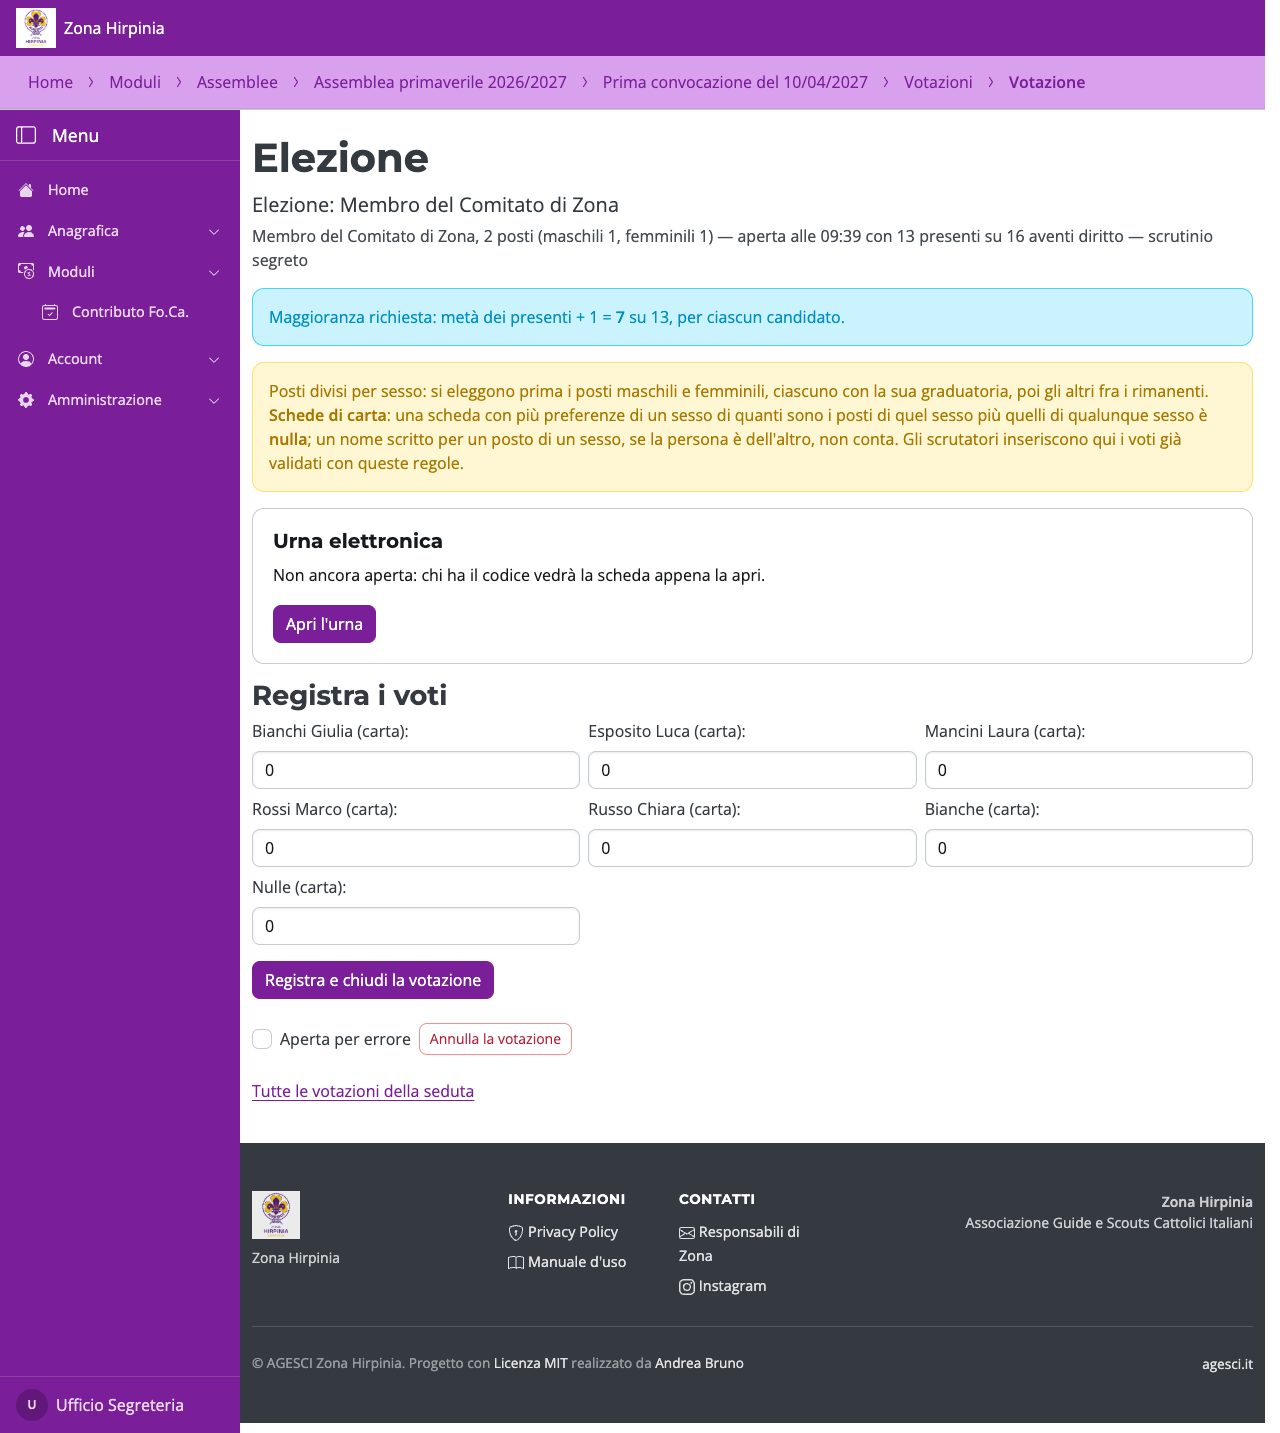
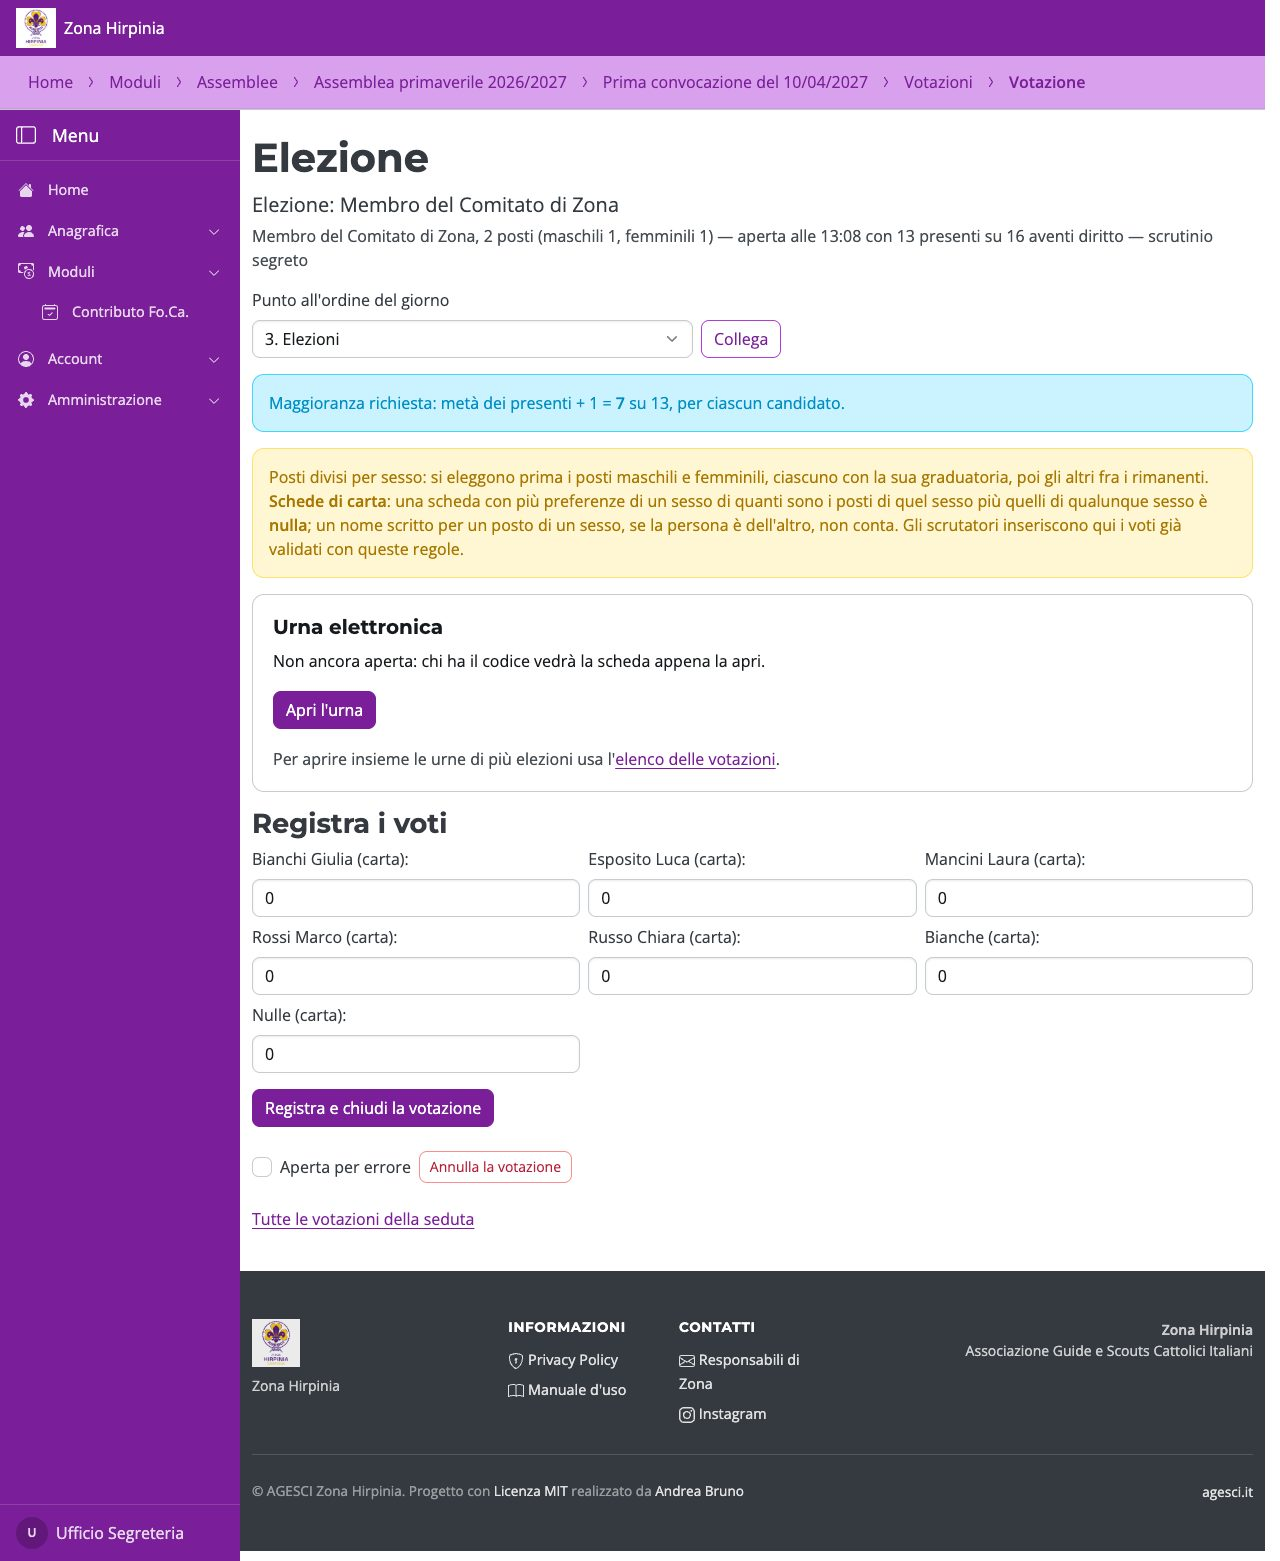
Votazione: il punto dell'OdG si collega anche a votazione chiusa
Dalla pagina della votazione si sceglie o si toglie il punto dell'ordine del
giorno in qualsiasi momento, anche a votazione chiusa e ad assemblea
conclusa (votazioni.collega_punto()): gestori, comitato elettorale,
presidenti e segretario. Serve al verbale, non tocca voti né soglie.

diff --git a/templates/assemblee/votazione.html b/templates/assemblee/votazione.html
@@ -12,6 +12,22 @@
     — {% if votazione.segreta %}scrutinio segreto{% if votazione.tipo == "BALLOTTAGGIO" and not assemblea.voto_catello %}, solo su carta{% endif %}{% else %}alzata di mano{% endif %}
   </p>
 
+  {% if puo_collegare_punto and punti_odg %}
+    <form method="post" action="{% url 'assemblee:votazione_azione' assemblea.pk seduta.pk votazione.pk %}" class="d-flex flex-wrap align-items-end gap-3 mb-5">
+      {% csrf_token %}<input type="hidden" name="azione" value="punto">
+      <div class="form-field mb-0">
+        <label for="punto-odg">Punto all'ordine del giorno</label>
+        <select id="punto-odg" name="punto" class="form-control">
+          <option value="">Nessuno</option>
+          {% for p in punti_odg %}<option value="{{ p.pk }}"{% if p.pk == votazione.punto_id %} selected{% endif %}>{{ p }}</option>{% endfor %}
+        </select>
+      </div>
+      <button type="submit" class="btn-outline theme-primary">Collega</button>
+    </form>
+  {% elif votazione.punto %}
+    <p class="mb-5">Punto all'ordine del giorno: {{ votazione.punto }}</p>
+  {% endif %}
+
   <div class="alert theme-info mb-5" role="note">
     <p class="mb-0">
       Maggioranza richiesta: metà {% if soglia.0 == "votanti" %}dei votanti{% elif soglia.0 == "aventi diritto" %}degli aventi diritto{% else %}dei presenti{% endif %} + 1

diff --git a/apps/assemblee/views.py b/apps/assemblee/views.py
@@ -1839,6 +1839,8 @@ class VotazioneView(AccedeAssembleeMixin, BreadcrumbExtraMixin, View):
         assemblea = votazione.seduta.assemblea
         in_app = assemblea.voto_catello and urna_voto.votazioni_in_app(votazione)
         return {
+            "puo_collegare_punto": voto.puo_collegare_punto(request.user, votazione),
+            "punti_odg": assemblea.punti_odg.order_by("ordine"),
             "urna": {
                 "prevista": in_app,
                 "votanti": scrutinio_voto.numero_votanti(votazione) if in_app else 0,
@@ -1916,7 +1918,8 @@ class VotazioneView(AccedeAssembleeMixin, BreadcrumbExtraMixin, View):
 
 
 class VotazioneAzioneView(LoginRequiredMixin, View):
-    """Ballottaggio e annullamento: i permessi li controlla il service layer."""
+    """Ballottaggio, annullamento e punto dell'OdG: i permessi li controlla il
+    service layer."""
 
     def post(self, request, pk, seduta_pk, votazione_pk):
         votazione = _votazione_visibile(request, pk, seduta_pk, votazione_pk)
@@ -1935,6 +1938,19 @@ class VotazioneAzioneView(LoginRequiredMixin, View):
                 return redirect(
                     reverse("assemblee:votazione", args=[pk, seduta_pk, ballottaggio.pk])
                 )
+            if azione == "punto":
+                valore = request.POST.get("punto", "")
+                punto = (
+                    get_object_or_404(PuntoOdG, pk=valore, assemblea=votazione.seduta.assemblea)
+                    if valore.isdigit()
+                    else None
+                )
+                voto.collega_punto(votazione, request.user, punto)
+                messages.success(
+                    request,
+                    f"Collegata al punto {punto}." if punto else "Nessun punto collegato.",
+                )
+                return redirect(reverse("assemblee:votazione", args=[pk, seduta_pk, votazione_pk]))
             if azione == "annulla" and request.POST.get("conferma") == "1":
                 voto.annulla_votazione(votazione, request.user)
                 messages.success(request, "Votazione annullata.")

diff --git a/apps/assemblee/tests/test_votazioni.py b/apps/assemblee/tests/test_votazioni.py
@@ -355,3 +355,38 @@ class TestRisultatiDaProiettare:
         assert pagina.count('id="mdi-crown"') == 1 and "Dora" in pagina
         # Una votazione non proiettabile riporta all'elenco.
         assert client.get(f"{base}/proiettore/risultati/?v=999999").status_code == 302
+
+
+class TestPuntoOdG:
+    def test_si_collega_anche_a_votazione_chiusa(self, client, seduta, segreteria):
+        from apps.assemblee.models import Assemblea, PuntoOdG
+
+        punto = PuntoOdG.objects.create(assemblea=seduta.assemblea, ordine=1, titolo="Bilancio")
+        v = _palese(
+            votazioni.apri_votazione(
+                seduta, segreteria, tipo=TipoVotazione.MOZIONE, oggetto="Bilancio"
+            ),
+            segreteria,
+            3,
+            0,
+            0,
+        )
+        votazione = seduta.votazioni.get()
+        assert v.approvata and votazione.chiusa
+        client.force_login(segreteria)
+        base = f"/assemblee/{seduta.assemblea_id}/sedute/{seduta.pk}/votazioni/{votazione.pk}/"
+        assert 'name="punto"' in client.get(base).content.decode()
+        client.post(base + "azione/", {"azione": "punto", "punto": punto.pk})
+        votazione.refresh_from_db()
+        assert votazione.punto == punto
+        client.post(base + "azione/", {"azione": "punto", "punto": ""})
+        votazione.refresh_from_db()
+        assert votazione.punto is None
+
+        altra = Assemblea.objects.create(tipo=seduta.assemblea.tipo, anno_scout=2028)
+        estraneo = PuntoOdG.objects.create(assemblea=altra, ordine=1, titolo="Altro")
+        with pytest.raises(ValidationError):
+            votazioni.collega_punto(votazione, segreteria, estraneo)
+        capo = Utente.objects.create(username="capo-punto", email="cp@example.it")
+        with pytest.raises(PermissionDenied):
+            votazioni.collega_punto(votazione, capo, punto)

diff --git a/apps/assemblee/votazioni.py b/apps/assemblee/votazioni.py
@@ -30,13 +30,14 @@ from .models import (
     CanaleVoto,
     Candidato,
     PosizioneVoto,
+    PuntoOdG,
     RisultatoCanale,
     Seduta,
     Sesso,
     TipoVotazione,
     Votazione,
 )
-from .permessi import puo_operare
+from .permessi import puo_compilare_verbale, puo_operare
 from .quorum import meta_piu_uno, stato_quorum
 
 BASE_PRESENTI = "presenti"
@@ -467,6 +468,24 @@ def annulla_votazione(votazione: Votazione, utente: Utente) -> None:
     if votazione.aperta_in_app_il is not None:
         raise ValidationError("Una votazione con l'urna elettronica già aperta non si annulla.")
     votazione.delete()
+
+
+def puo_collegare_punto(utente: Utente, votazione: Votazione) -> bool:
+    assemblea = votazione.seduta.assemblea
+    return puo_operare(utente, assemblea) or puo_compilare_verbale(utente, assemblea)
+
+
+@transaction.atomic
+def collega_punto(votazione: Votazione, utente: Utente, punto: PuntoOdG | None) -> None:
+    """Punto dell'ordine del giorno di una votazione, o nessuno. Si cambia in
+    qualsiasi momento, anche a votazione chiusa e ad assemblea conclusa: è
+    l'ordinamento del verbale, non tocca voti né soglie."""
+    if not puo_collegare_punto(utente, votazione):
+        raise PermissionDenied
+    if punto is not None and punto.assemblea_id != votazione.seduta.assemblea_id:
+        raise ValidationError("Il punto non è dell'ordine del giorno di questa assemblea.")
+    votazione.punto = punto
+    votazione.save(update_fields=["punto"])
 
 
 def _voti(n: int, singolare: str, plurale: str) -> str:

diff --git a/docs-manuali/gestione/votazioni.md b/docs-manuali/gestione/votazioni.md
@@ -58,6 +58,10 @@ pubblica la bacheca e ne fissa l'impronta per il verbale.
 
 ![Esito della votazione](img/votazione-esito.jpg)
 
+Il **punto all'ordine del giorno** di una votazione si cambia dalla sua pagina in
+qualsiasi momento, anche dopo la chiusura e ad assemblea conclusa: scegli il punto e
+premi **Collega**. Serve al verbale, non cambia voti né maggioranze.
+
 ## Proiettare i risultati
 
 Per mostrare in sala i risultati delle elezioni, nell'elenco delle **Votazioni** spunta
